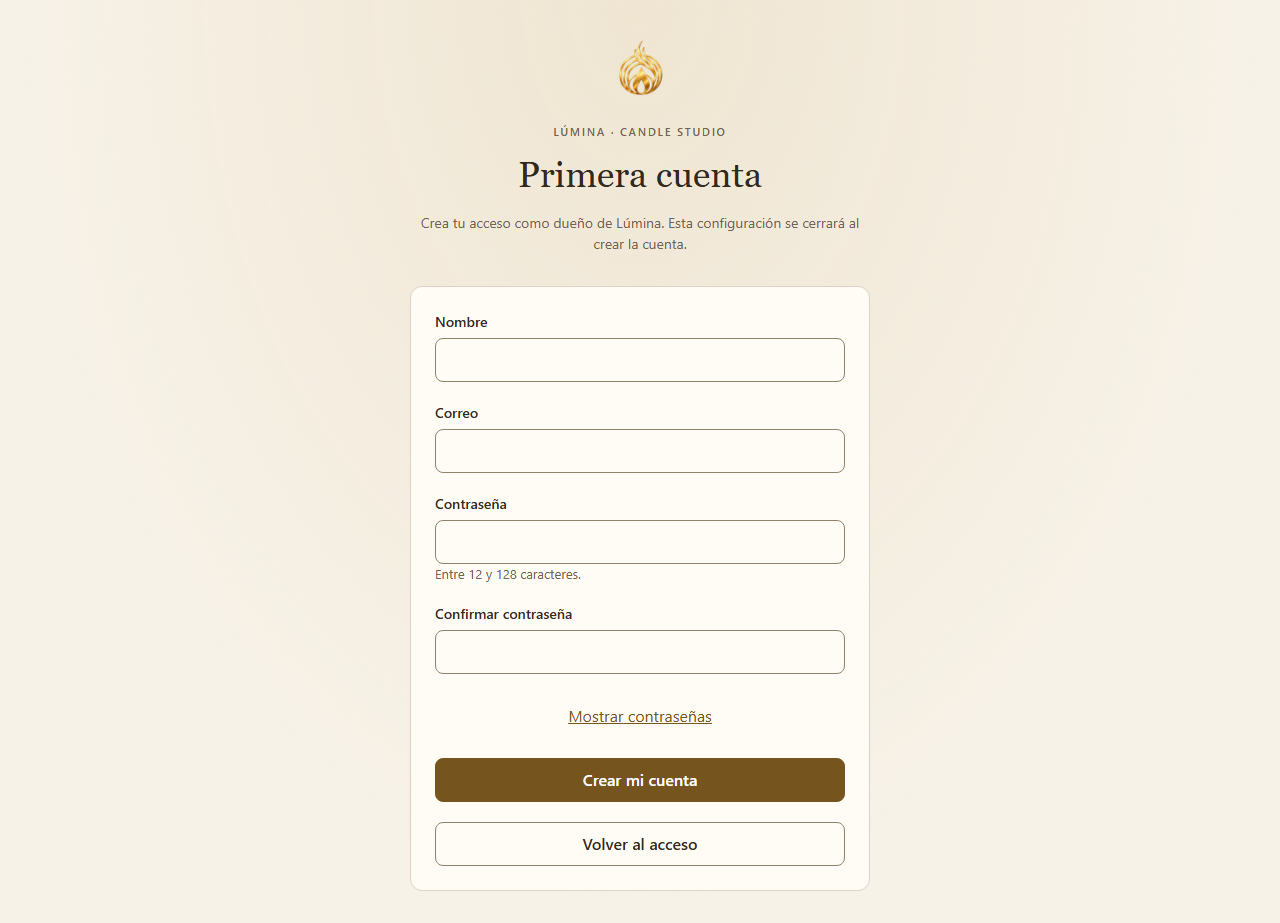
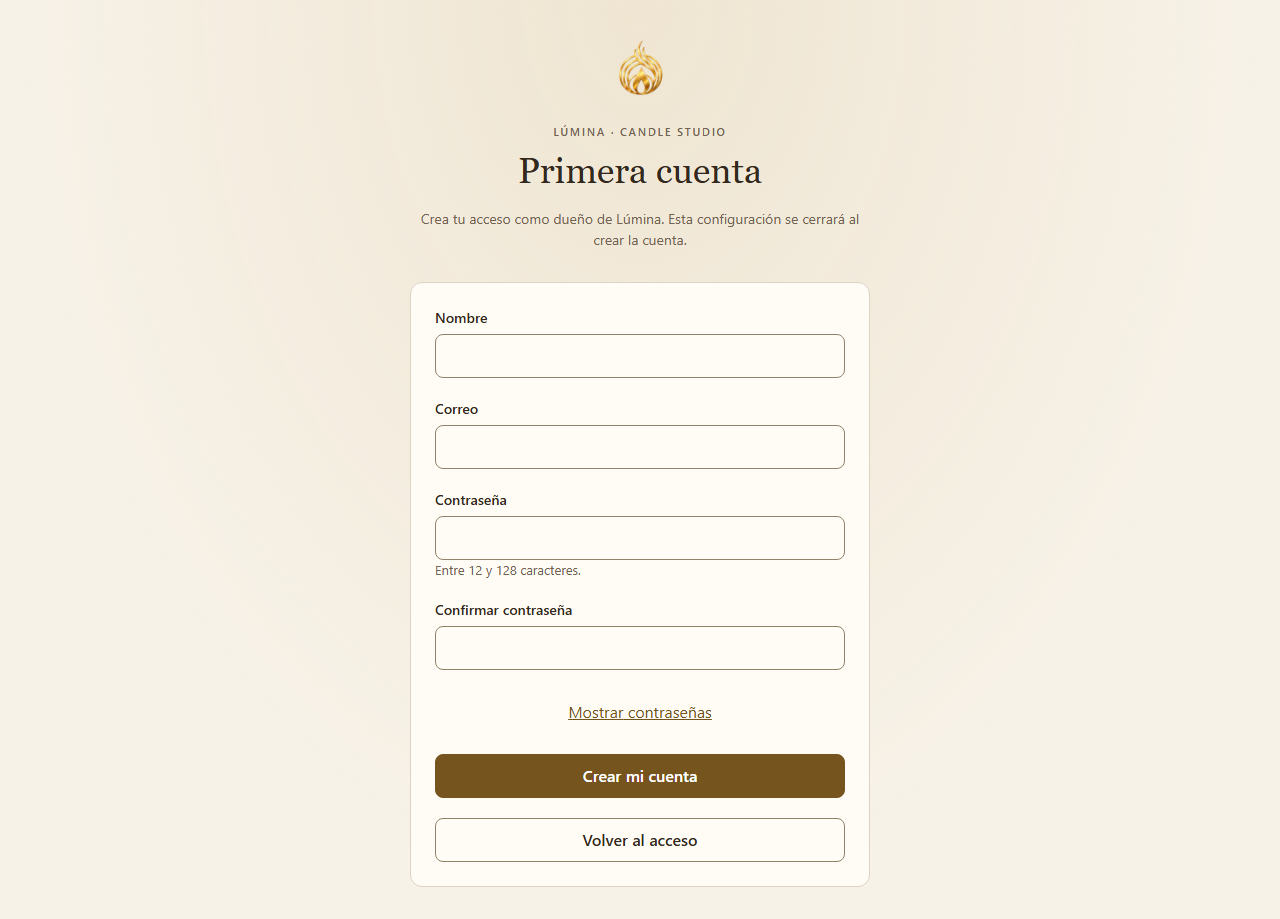
Enable protected first-owner registration in production

diff --git a/tests/integration/initial-setup.test.ts b/tests/integration/initial-setup.test.ts
@@ -4,7 +4,7 @@ import {parse} from 'dotenv';
 import pg from 'pg';
 import {hashPassword} from 'better-auth/crypto';
 import {createDatabase} from '@/server/db';
-import {initialSetupAvailable,provisionInitialOwner,localSetupOrigin} from '@/server/initial-setup-service';
+import {initialSetupAvailable,provisionInitialOwner,localSetupOrigin,setupOrigin} from '@/server/initial-setup-service';
 import type {PrismaClient} from '@/generated/prisma/client';
 const request=vi.hoisted(()=>({value:new Headers({origin:'http://localhost:3001',host:'localhost:3001'})}));
 vi.mock('next/headers',()=>({headers:async()=>request.value}));
@@ -50,9 +50,32 @@ describe('first owner, isolated real PostgreSQL',()=>{
   expect((await provisionInitialOwner({...payload,passwordConfirmation:'DifferentPassword!'},'http://localhost:3001','http://localhost:3001',runtime)).code).toBe('INVALID');
   expect(await runtime.user.count()).toBe(0);
  });
+ it('production requires HTTPS, configured activation token, exact origin and valid activation code',async()=>{
+  const token='a'.repeat(64);
+  expect(setupOrigin('https://lumina.example',undefined)).toBeNull();
+  expect(setupOrigin('http://lumina.example',token)).toBeNull();
+  expect(setupOrigin('https://lumina.example/',token)).toBeNull();
+  expect(setupOrigin('https://lumina.example',token)).toBe('https://lumina.example');
+  vi.stubEnv('INITIAL_SETUP_TOKEN',token);
+  try{
+   expect((await provisionInitialOwner(payload,'https://lumina.example','https://lumina.example',runtime)).code).toBe('INVALID');
+   expect((await provisionInitialOwner({...payload,activationCode:'b'.repeat(64)},'https://lumina.example','https://lumina.example',runtime)).code).toBe('INVALID');
+   expect((await provisionInitialOwner({...payload,activationCode:token},'https://evil.example','https://lumina.example',runtime)).code).toBe('UNAVAILABLE');
+   vi.stubEnv('BETTER_AUTH_URL','https://lumina.example');
+   const badHeaders:Record<string,string>[]=[{host:'evil.example',origin:'https://lumina.example'},{host:'lumina.example',origin:'https://lumina.example','x-forwarded-host':'evil.example'},{host:'lumina.example',origin:'https://lumina.example','x-forwarded-proto':'http'}];
+   for(const fields of badHeaders){
+    request.value=new Headers(fields);expect((await createInitialOwner({...payload,activationCode:token})).code).toBe('UNAVAILABLE');
+   }
+   request.value=new Headers({host:'lumina.example',origin:'https://lumina.example','x-forwarded-host':'lumina.example','x-forwarded-proto':'https'});
+   expect((await createInitialOwner({...payload,activationCode:'b'.repeat(64)})).code).toBe('INVALID');
+   expect(await runtime.user.count()).toBe(0);
+  }finally{vi.unstubAllEnvs();request.value=new Headers({origin:'http://localhost:3001',host:'localhost:3001'});}
+ });
  it('exactly one simultaneous creator wins atomically with a Better Auth usable password; direct signup remains denied',async()=>{
   expect(await initialSetupAvailable(runtime)).toBe(true);
-  const result=await Promise.all([provisionInitialOwner(payload,'http://localhost:3001','http://localhost:3001',runtime),provisionInitialOwner({...payload,email:'second@example.test'},'http://localhost:3001','http://localhost:3001',runtime)]);
+  vi.stubEnv('INITIAL_SETUP_TOKEN','a'.repeat(64));
+  let result;
+  try{result=await Promise.all([provisionInitialOwner({...payload,activationCode:'a'.repeat(64)},'https://lumina.example','https://lumina.example',runtime),provisionInitialOwner({...payload,email:'second@example.test',activationCode:'a'.repeat(64)},'https://lumina.example','https://lumina.example',runtime)]);}finally{vi.unstubAllEnvs();}
   expect(result.filter(v=>v.ok)).toHaveLength(1);expect(await runtime.user.count()).toBe(1);expect(await runtime.account.count()).toBe(1);
   const owner=await runtime.user.findFirstOrThrow();expect(owner.activeAccess).toBe(true);
   // Same library options/adapter as web auth, restricted DB and official login API.

diff --git a/src/components/initial-setup-form.tsx b/src/components/initial-setup-form.tsx
@@ -5,10 +5,10 @@ import Link from 'next/link';
 import { useRouter } from 'next/navigation';
 import { createInitialOwner } from '@/server/initial-setup';
 
-type Field = 'name' | 'email' | 'password' | 'passwordConfirmation';
-const fields: Field[] = ['name', 'email', 'password', 'passwordConfirmation'];
+type Field = 'activationCode' | 'name' | 'email' | 'password' | 'passwordConfirmation';
+const fields: Field[] = ['activationCode', 'name', 'email', 'password', 'passwordConfirmation'];
 
-export function InitialSetupForm() {
+export function InitialSetupForm({requiresActivationCode=false}:{requiresActivationCode?:boolean}) {
     const router = useRouter();
     const submitting = useRef(false);
     const [busy, setBusy] = useState(false);
@@ -28,8 +28,10 @@ export function InitialSetupForm() {
             email: String(values.get('email') ?? '').trim(),
             password: String(values.get('password') ?? ''),
             passwordConfirmation: String(values.get('passwordConfirmation') ?? ''),
+            ...(requiresActivationCode?{activationCode:String(values.get('activationCode')??'').trim()}:{}),
         };
         const nextErrors: Partial<Record<Field, string>> = {};
+        if(requiresActivationCode&&!/^[a-f0-9]{64}$/.test(input.activationCode??''))nextErrors.activationCode='Escribe el código de activación recibido.';
         if (!input.name || input.name.length > 120) nextErrors.name = 'Escribe tu nombre, hasta 120 caracteres.';
         if (!input.email || input.email.length > 254 || !/^[^\s@]+@[^\s@]+\.[^\s@]+$/.test(input.email)) nextErrors.email = 'Escribe un correo válido.';
         if (input.password.length < 12 || input.password.length > 128) nextErrors.password = 'Usa una contraseña de 12 a 128 caracteres.';
@@ -74,6 +76,7 @@ export function InitialSetupForm() {
     return <form onSubmit={submit} className="form-stack" noValidate aria-busy={busy}>
         {message && <p role="alert" className="notice error">{message}</p>}
         {!closed && <>
+            {requiresActivationCode&&<label>Código de activación<input name="activationCode" type="password" autoComplete="off" required maxLength={64} disabled={busy} aria-invalid={!!errors.activationCode} aria-describedby={errors.activationCode?'setup-activationCode-error':undefined}/>{error('activationCode')}</label>}
             <label>Nombre<input name="name" autoComplete="name" required maxLength={120} disabled={busy} aria-invalid={!!errors.name} aria-describedby={errors.name ? 'setup-name-error' : undefined}/>{error('name')}</label>
             <label>Correo<input name="email" type="email" autoComplete="username" required maxLength={254} disabled={busy} aria-invalid={!!errors.email} aria-describedby={errors.email ? 'setup-email-error' : undefined}/>{error('email')}</label>
             <label>Contraseña<input name="password" type={visible ? 'text' : 'password'} autoComplete="new-password" required minLength={12} maxLength={128} disabled={busy} aria-invalid={!!errors.password} aria-describedby={`setup-password-help${errors.password ? ' setup-password-error' : ''}`}/><small id="setup-password-help">Entre 12 y 128 caracteres.</small>{error('password')}</label>

diff --git a/src/server/initial-setup-service.ts b/src/server/initial-setup-service.ts
@@ -1,22 +1,31 @@
 import 'server-only';
-import {randomUUID} from 'node:crypto';
+import {randomUUID,createHash,timingSafeEqual} from 'node:crypto';
 import {hashPassword} from 'better-auth/crypto';
 import {z} from 'zod';
 import {db} from './db';
 import type {PrismaClient} from '@/generated/prisma/client';
 
 export type InitialSetupResult={ok:boolean;code?:'CLOSED'|'INVALID'|'UNAVAILABLE';message:string};
-const inputSchema=z.strictObject({name:z.string().trim().min(1).max(120),email:z.email().trim().toLowerCase().max(254),password:z.string().min(12).max(128),passwordConfirmation:z.string().min(12).max(128)}).refine(v=>v.password===v.passwordConfirmation);
+const inputSchema=z.strictObject({name:z.string().trim().min(1).max(120),email:z.email().trim().toLowerCase().max(254),password:z.string().min(12).max(128),passwordConfirmation:z.string().min(12).max(128),activationCode:z.string().max(128).optional()}).refine(v=>v.password===v.passwordConfirmation);
 export function localSetupOrigin(baseURL:string|undefined):string|null {
  try{const url=new URL(baseURL??'');return url.origin===baseURL&&url.protocol==='http:'&&['localhost','127.0.0.1','[::1]'].includes(url.hostname)?url.origin:null;}catch{return null;}
+}
+export function setupOrigin(baseURL:string|undefined,activationToken:string|undefined):string|null {
+ if(localSetupOrigin(baseURL))return baseURL!;
+ try{const url=new URL(baseURL??'');return url.origin===baseURL&&url.protocol==='https:'&&/^[a-f0-9]{64}$/.test(activationToken??'')?url.origin:null;}catch{return null;}
 }
 export async function initialSetupAvailable(database:PrismaClient=db):Promise<boolean> {
  try{const result=await database.$queryRaw<{available:boolean}[]>`SELECT public.initial_owner_available() AS available`;return result[0]?.available===true;}catch{return false;}
 }
 export async function provisionInitialOwner(input:unknown,origin:string|null,baseURL:string|undefined,database:PrismaClient=db):Promise<InitialSetupResult> {
- if(!localSetupOrigin(baseURL)||origin!==baseURL)return {ok:false,code:'UNAVAILABLE',message:'La configuración inicial solo está disponible desde esta aplicación local.'};
+ const token=process.env['INITIAL_SETUP_TOKEN'];
+ if(!setupOrigin(baseURL,token)||origin!==baseURL)return {ok:false,code:'UNAVAILABLE',message:'La creación de la primera cuenta no está disponible desde este acceso.'};
  const parsed=inputSchema.safeParse(input);
  if(!parsed.success)return {ok:false,code:'INVALID',message:'Revisa el nombre, correo y las contraseñas de 12 a 128 caracteres.'};
+ if(!localSetupOrigin(baseURL)){
+  const supplied=parsed.data.activationCode??'';
+  if(!timingSafeEqual(createHash('sha256').update(supplied).digest(),createHash('sha256').update(token!).digest()))return {ok:false,code:'INVALID',message:'El código de activación no es válido.'};
+ }
  try{
   if(!await initialSetupAvailable(database))return {ok:false,code:'CLOSED',message:'La primera cuenta ya fue creada. Inicia sesión.'};
   const attempts=await database.$queryRaw<{reserved:boolean}[]>`SELECT public.reserve_initial_owner_attempt() AS reserved`;

diff --git a/src/server/initial-setup.ts b/src/server/initial-setup.ts
@@ -1,16 +1,17 @@
 'use server';
 import {headers} from 'next/headers';
-import {initialSetupAvailable,localSetupOrigin,provisionInitialOwner} from './initial-setup-service';
+import {initialSetupAvailable,localSetupOrigin,setupOrigin,provisionInitialOwner} from './initial-setup-service';
 import type {InitialSetupResult} from './initial-setup-service';
-export async function getInitialSetupStatus():Promise<{available:boolean}> {
- return {available:!!localSetupOrigin(process.env['BETTER_AUTH_URL'])&&await initialSetupAvailable()};
+export async function getInitialSetupStatus():Promise<{available:boolean;requiresActivationCode:boolean}> {
+ const baseURL=process.env['BETTER_AUTH_URL'];
+ return {available:!!setupOrigin(baseURL,process.env['INITIAL_SETUP_TOKEN'])&&await initialSetupAvailable(),requiresActivationCode:!localSetupOrigin(baseURL)};
 }
 export async function createInitialOwner(input:unknown):Promise<InitialSetupResult> {
  const requestHeaders=await headers();const baseURL=process.env['BETTER_AUTH_URL'];
- const local=localSetupOrigin(baseURL);
+ const local=setupOrigin(baseURL,process.env['INITIAL_SETUP_TOKEN']);
  if(!local||requestHeaders.get('host')!==new URL(local).host||
   (requestHeaders.has('x-forwarded-host')&&requestHeaders.get('x-forwarded-host')!==new URL(local).host)||
-  (requestHeaders.has('x-forwarded-proto')&&requestHeaders.get('x-forwarded-proto')!=='http'))
-  return {ok:false,code:'UNAVAILABLE',message:'La configuración inicial solo está disponible desde esta aplicación local.'};
+  (requestHeaders.has('x-forwarded-proto')&&requestHeaders.get('x-forwarded-proto')!==new URL(local).protocol.slice(0,-1)))
+  return {ok:false,code:'UNAVAILABLE',message:'La creación de la primera cuenta no está disponible desde este acceso.'};
  return provisionInitialOwner(input,requestHeaders.get('origin'),baseURL);
 }

diff --git a/src/app/configuracion-inicial/page.tsx b/src/app/configuracion-inicial/page.tsx
@@ -12,6 +12,6 @@ export default async function InitialSetup() {
         <Image src="/brand/lumina-symbol.png" alt="" width={56} height={72} className="login-symbol" priority/>
         <p className="eyebrow">LÚMINA · CANDLE STUDIO</p><h1>Primera cuenta</h1>
         <p className="login-intro">Crea tu acceso como dueño de Lúmina. Esta configuración se cerrará al crear la cuenta.</p>
-        <InitialSetupForm/>
+        <InitialSetupForm requiresActivationCode={setup.requiresActivationCode}/>
     </section></main>;
 }

diff --git a/docs/PROJECT_STATUS.md b/docs/PROJECT_STATUS.md
@@ -1,8 +1,8 @@
 # Project Status
 
-Current Phase: COMPLETE
+Current Phase: DELIVERY
 
-Current Milestone: LUM-12..16 — mejoras aprobadas entregadas y validadas.
+Current Milestone: publicacion Vercel/Neon; despliegue Ready, acceso de duenos pendiente.
 
 Progress: LUM-01..16 DONE. Blueprint inicial aprobado2026-09-30 y ampliación aprobada2026-10-01. Entrega local; activación productiva fuera del alcance.
 
@@ -17,7 +17,7 @@ Completed:
 - QA independiente, build, tipado, lint y restore aislado aprobados; documentación/entrega actualizadas.
 
 In Progress:
-- Ninguno en el alcance local aprobado.
+- Aprovisionamiento de cuentas productivas y comprobacion autenticada; consentimiento de transferencia de cuentas locales pendiente.
 
 Blocked:
 - Ninguno para esta entrega. Producción futura requiere hosting/HTTPS, rotación de credencial Neon compartida, roles separados, validación PostgreSQL 18.6, costes y autorización; ver RUNBOOK/DELIVERY.
@@ -38,3 +38,15 @@ Last Validation:
 
 - 2026-10-01: usuario selecciona Vercel. Preparación de build con generación Prisma y región iad1; guía/env/gate en RUNBOOK. Proyecto Vercel/URL, rotación/roles Neon y autorización productiva pendientes; sin deployment.
 - Preparacion Vercel: build:vercel (Prisma generate + Next/TypeScript) PASS, lint y diff check PASS; revision independiente cicd_expert APPROVE para configuracion/GitHub. No validacion cloud ni autorizacion de deployment.
+
+- 2026-10-01: proyecto Vercel lumina-app confirmado en dossantosimas-projects; dominio lumina-app-sepia.vercel.app, sin deployment. Node22.x guardado; APP_URL y BETTER_AUTH_URL configuradas exclusivamente Production. Neon migraciones/roles, DATABASE_URL y BETTER_AUTH_SECRET pendientes. Esperando rotacion manual de credencial Neon y actualizacion del archivo ignorado.
+
+- 2026-10-01: usuario autoriza preparar Neon reutilizando passwords de roles locales. Scripts ignorados neon-prepare/neon-apply preparados; secreto de firma propio de produccion. Auto-review rechazo ejecucion por necesitar aprobacion precisa de creacion de roles, cambio de owner y revocacion de permisos PUBLIC en neondb. Ninguna mutacion remota ejecutada; pendiente aprobacion de alcance.
+
+- 2026-10-01: usuario aprueba explicitamente roles/cambio de ownership/revocacion PUBLIC y migraciones en neondb. Bootstrap y tres migraciones/grants completados; TLS pooled y privilegios runtime/operador/funciones verificados en solo lectura PASS. Revision independiente cicd_expert APPROVE. Datos comerciales y duenos en Neon: cero. Passwords de roles reutilizados de Docker por solicitud del usuario; firma Auth aleatoria propia de produccion. Secrets Vercel y primera cuenta/deployment siguen pendientes; no se transfirieron cuentas ni datos Docker.
+
+- 2026-10-01: usuario autoriza explicitamente DATABASE_URL runtime restringida y BETTER_AUTH_SECRET en Vercel Production y deployment. Ambas variables Secret guardadas exclusivamente Production. Despliegue main commit9e95076 iniciado, ID EyDPNSfGAVsZJuqaHGnV7ZmeCD5L; comprobacion Ready/HTTPS pendiente. Transferencia de cuentas locales sigue pendiente de consentimiento especifico.
+
+- 2026-10-01: Vercel Production Ready en56s, main9e95076, deployment EyDPNSfGAVsZJuqaHGnV7ZmeCD5L. URL https://lumina-app-sepia.vercel.app. Secrets runtime exclusivos Production; sin operador/migrador en Vercel. Smoke HTTPS sololectura PASS: login200, DENY/nosniff/HSTS, pantallas privadas y setup inicial redirigen login (Next streaming meta1s), session anonima null. No se ha probado login autenticado; cero cuentas productivas, autorizacion de copia de cuentas sigue pendiente.
+
+- Production registration extension tested/reviewed:37unit/30integration, typecheck/lint/build PASS, isolated browser1/1 PASS with responsive screenshots. Code/security APPROVE; private activation code in ignored production-registration-code.txt. Waiting explicit permission to store INITIAL_SETUP_TOKEN in VercelProduction and deploy. No account created or transferred in Neon.

diff --git a/docs/RUNBOOK.md b/docs/RUNBOOK.md
@@ -151,3 +151,14 @@ Primer dueño productivo por CLI de operador usando archivo ignorado separado `.
 Gate de publicación: rotar la credencial compartida, confirmar cuenta/proyecto Vercel y URL, entorno Neon validado/roles/copia recuperable, cuenta de dueño y autorización productiva. No se han aplicado migraciones ni publicado el sitio. Verificar después: HTTPS/login/logout/primer dueño, operación de pedidos/clientes/productos/gastos, filtros/resumen y ausencia de secretos en logs.
 
 Fuentes: https://vercel.com/docs/functions/runtimes/node-js/node-js-versions y https://vercel.com/kb/guide/nextjs-prisma-postgres.
+
+
+Actualizacion Neon 2026-10-01: con aprobacion explicita se crearon lumina_app/lumina_operator/lumina_migrator, schema public del migrador, sin permisos PUBLIC, y se aplicaron las tres migraciones/grants. Passwords de roles iguales al entorno local por solicitud del usuario; BETTER_AUTH_SECRET productivo independiente. Evidencia sanitizada ignorada neon-validation-result.json y neon-review-result.json: TLS verificado, limites runtime/operador y ownership/PUBLIC EXECUTE PASS; ninguna cuenta ni dato comercial transferido. Configuracion exclusiva ignorada neon-app.env/neon-operator.env/neon-migrator.env. No usar npm db:migrate (archivo local) para Neon: operacion directa mediante entorno neon-migrator separado y reviewed scripts. Falta secretos runtime en Vercel, cuenta productiva y smoke de aplicacion. Cuenta Vercel observada Hobby: verificar condiciones de uso comercial antes de activar operacion real (https://vercel.com/docs/limits/fair-use-guidelines).
+
+
+Publicacion Vercel 2026-10-01: URL https://lumina-app-sepia.vercel.app, proyecto dossantosimas-projects/lumina-app, rama main, commit9e95076, deployment EyDPNSfGAVsZJuqaHGnV7ZmeCD5L Ready56s. Node22.x; las cuatro variables configuradas soloProduction, DATABASE_URL y BETTER_AUTH_SECRET como Secret. HTTPS/cabeceras/login/guardas privadas verificadas sin escrituras; no existe primera cuenta aun. Aprovisionar por operador o transferir exclusivamente cuentas locales activas con consentimiento explicito, conservando hashes BetterAuth y sin sesiones. La web inicial permanece bloqueada en origenexterno. No conectar localhost a Neon ni asumir que datos/cuentas Docker se transfirieron.
+
+
+## Primera cuenta HTTPS autorizada — 2026-10-01
+
+Usuario solicita registrarse en produccion. Configurar INITIAL_SETUP_TOKEN de64 caractereshex aleatorios como Secret exclusivoProduction en Vercel. Valor privado generado en `.runtime/production-registration-code.txt` (ignorado): el dueno lo introduce en Codigo de activacion, no en URL ni logs. No publicar ese archivo ni valor. Registro https://lumina-app-sepia.vercel.app/configuracion-inicial: nombre/correo/password12..128/confirmacion y codigo. Solo origen/host/proxy exactos configurados; aliases no son origen de registro. Falta del secreto mantiene registro HTTPS cerrado. Crear primera cuenta cierra la base permanentemente incluso tras revocar/borrar dueños. El login oculta el enlace al cerrarse. No afecta el bootstrap HTTPloopback local y no habilita signup generico. Quitar INITIAL_SETUP_TOKEN de Vercel despues de terminar el alta y redeploy para eliminar credencial de bootstrap residual. Otras cuentas siguen por operador; no transferir cuentas locales sin consentimiento.

diff --git a/AGENTS.md b/AGENTS.md
@@ -2,9 +2,9 @@
 
 Blueprint approved by user on 2026-09-30. Resume docs/PROJECT_STATUS.md and docs/TASKS.md; follow sibling ../codex-framework/framework/AGENTS.md and project-lifecycle.md. Do not edit framework or _sources.
 
-Scope: private owners-only COP app, multiline candle orders with optional product catalog references and free descriptions, clients, products and expenses. No inventory, payment tracking or attachments. Docker PostgreSQL local, Neon production; production not connected or authorized for deployment.
+Scope: private owners-only COP app, multiline candle orders with optional product catalog references and free descriptions, clients, products and expenses. No inventory, payment tracking or attachments. Docker PostgreSQL local, Neon production; Neon connected and Vercel deployment authorized and active (2026-10-01).
 
-User-approved LUM-11: first owner may be created through /configuracion-inicial on the exact configured HTTP loopback origin only. Durable database latch and triggers enforce one bootstrap winner and prevent reopening after revocation/deletion. Generic signup remains disabled. Runtime keeps narrow function EXECUTE and no generic user/account write privileges; never import operator credentials into web. Test bootstrap only in guarded isolated databases, never create synthetic owners in lumina.
+User-approved LUM-11: first owner may be created through /configuracion-inicial on the exact configured HTTP loopback origin, or the exact configured HTTPS origin with a server-only INITIAL_SETUP_TOKEN (64 lowercase hex characters) and matching activationCode. Production first-owner registration explicitly requested by user 2026-10-01. Durable database latch and triggers enforce one bootstrap winner and prevent reopening after revocation/deletion. Generic signup remains disabled. Runtime keeps narrow function EXECUTE and no generic user/account write privileges; never import operator credentials into web. Test bootstrap only in guarded isolated databases, never create synthetic owners in lumina.
 
 Architecture/contracts: docs/ARCHITECTURE.md, API_DESIGN.md, DATABASE_DESIGN.md. UX/tokens/logo: docs/UX_PLAN.md. Exact versions: docs/TECHNOLOGY_STACK.md. TypeScript strict, Prisma7 adapter-pg, Better Auth; no custom auth hashing or browser-writable activeAccess. Guards per operation, transactional owner admission, exact monetary strings, optimistic versions, persistent idempotency and append-only audit. Never print .env, passwords, session tokens, full customer payloads or connection URLs. Test data synthetic only.
 

diff --git a/docs/INITIAL_SETUP_QA.md b/docs/INITIAL_SETUP_QA.md
@@ -28,3 +28,6 @@ Las primeras corridas fallaron por localizadores del test que exigían etiquetas
 Primero compilar con `npm.cmd run build`; mantener Docker activo y entorno local de pruebas generado. Ejecutar `node scripts/qa-initial-setup.mjs`. El runner rechaza sobrescribir una base temporal ya existente, usa credenciales en memoria y `.runtime` ignorado, aplica todas las migraciones y permisos mínimos, y elimina únicamente su base temporal al salir. No activa trace ni imprime contraseñas/URLs de conexión. El escenario crea una identidad sintética exclusivamente en esa base.
 
 Cobertura de concurrencia de dos creadores y CLI compitiendo pertenece a integración real; no se duplicó artificialmente en navegador. No se validaron Neon, publicación externa, todas las tecnologías asistivas ni usabilidad con dueños reales. Capturas son evidencia de disposición visual, no una auditoría completa de accesibilidad.
+
+
+Production bootstrap extension 2026-10-01:37 unit tests/30 integration PASS; typecheck/lint/build:vercel PASS. Production-mode token/origin/proxy validation and concurrent valid-token create/login tested in isolatedPostgreSQL; invalid token leaves zero identities. Browser initial-owner E2E1/1 PASS2.8m (assertions2.6s; Windows QAserver teardown needed scoped stop of only testserver3002). Screenshots360/768/1280 updated; no synthetic users created in Neon. Published activation still awaits INITIAL_SETUP_TOKEN authorization.

diff --git a/docs/TASKS.md b/docs/TASKS.md
@@ -90,3 +90,12 @@ Cierre LUM-11: INITIAL_SETUP_QA.md y INITIAL_SETUP_REVIEW.md, gates PASS y halla
 Plan canónico: IMPROVEMENTS_PLAN.md.
 
 Cierre2026-10-01 LUM-12..16: todos DONE; reviews codigo/seguridad y UX APPROVE; QA37/29 y25E2E distintos PASS (23completa+2acotados), tipos/lint/build PASS; restoreQA exacto incluyendo catalogo PASS. Evidencia IMPROVEMENTS_REVIEW/UX_REVIEW/QA y DELIVERY. No datos reales de negocio fabricados, Neon ni hosting activados.
+
+
+## Publicacion Vercel/Neon autorizada — 2026-10-01
+
+- LUM-17 — Neon: DONE. Tres migraciones, roles/ownership/grants, TLS y revisiones independientes PASS; credenciales en archivos ignorados.
+- LUM-18 — Vercel: DONE. Secrets Production y despliegue main9e95076 Ready; smoke anonimo HTTPS PASS. URL lumina-app-sepia.vercel.app.
+- LUM-19 — Acceso productivo: BLOCKED. Pendiente consentimiento especifico para copiar cuentas locales o datos del primer dueno para provision. Sin cuentas ni datos comerciales transferidos. Login autenticado/flujo operativo real pendientes; QA fixtures nunca en produccion.
+
+- LUM-20 — Primera cuenta en produccion: IN_PROGRESS. HTTPS canonical exacto y codigo de activacion privado, cierre durable despues de primera cuenta, sin signup generico ni nuevos permisosDB. Review code/security APPROVE; QAaislado y publicacion pendientes de cierre.

diff --git a/docs/INITIAL_SETUP_REVIEW.md b/docs/INITIAL_SETUP_REVIEW.md
@@ -34,3 +34,6 @@ Prueba integración leída: DB temporal aislada que rehúsa sobrescribir una exi
 - README/RUNBOOK describen la primera cuenta local, cierre permanente y CLI para cuentas posteriores. Allowlist y disableSignUp intactos; imports web usan solo db runtime y Better Auth crypto, sin instancia operador ni credenciales migrador.
 
 Revisión independiente final sobre la fuente corregida. No quedan Must fix/Should fix abiertos. Gate QA incorporado y cerrado; el orquestador puede actualizar estado y entrega. Una regresión o cambio de fuente posterior obliga a revisar el delta.
+
+
+Production bootstrap extension 2026-10-01: independent code_reviewer/security_auditor APPROVE (production_signup_review). Server-only INITIAL_SETUP_TOKEN64hex gates exactHTTPS origin; constant-time hashed comparison, strict payload, unchanged DB latch/rate/concurrency and generic signup disabled. No elevated runtime grant. Scope first owner only. Header valid path/invalid token tested without writes; fixture registration/login only isolatedDocker.
